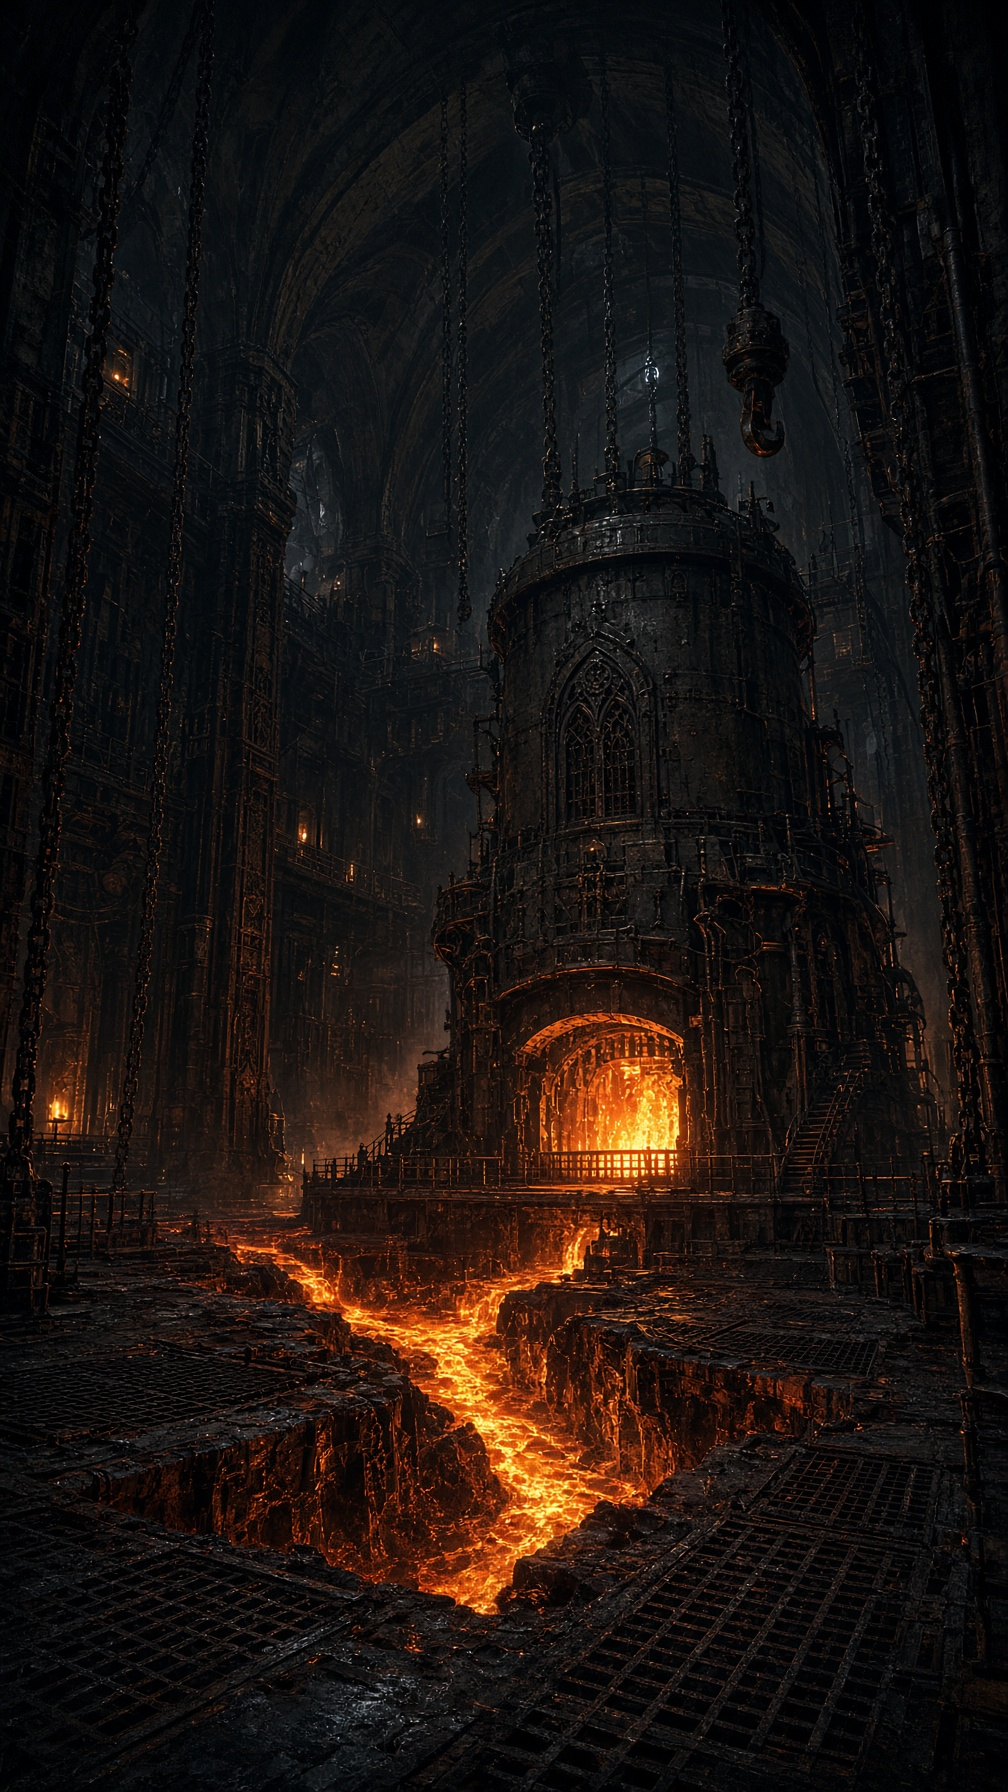
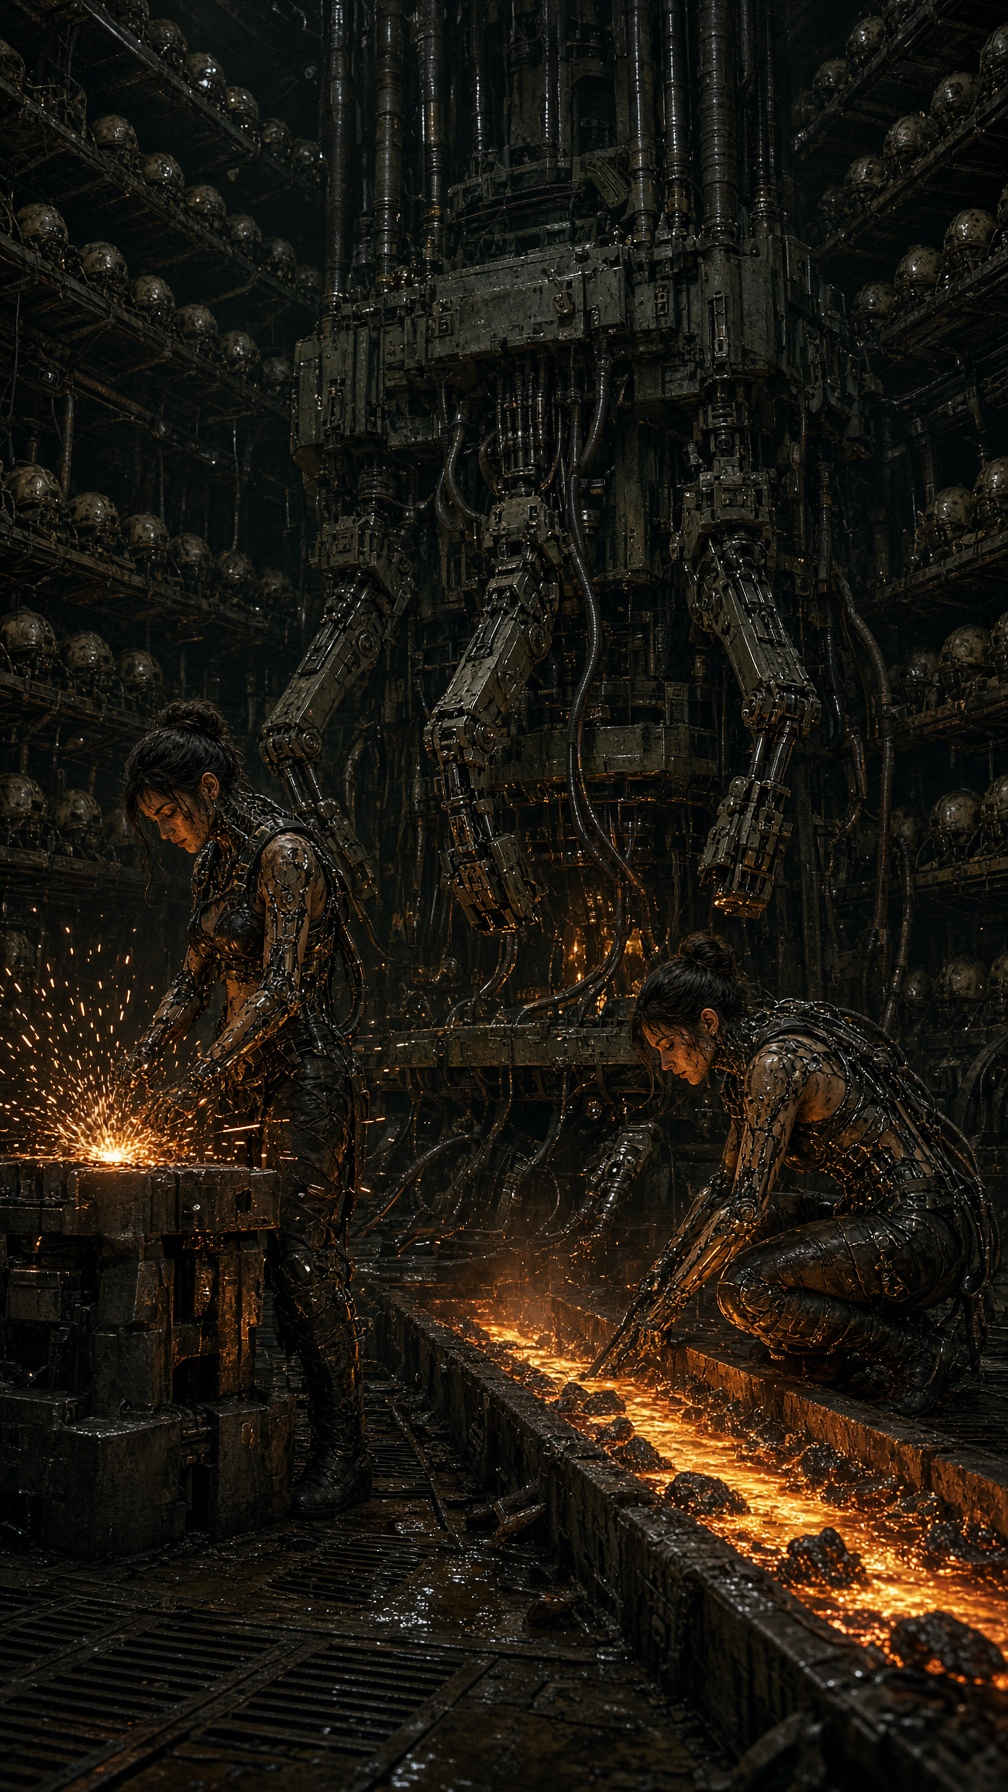
Hold 3D canvas under hive interiors so RAID never cold-starts.
Canvas stays mounted. HULL/FORGE/MINDS overlay new cyborg hive art.
Forge is a print bay, not the command deck. RAID rail fails closed.

diff --git a/src/components/nidus/NidusApp.tsx b/src/components/nidus/NidusApp.tsx
@@ -243,7 +243,13 @@ function LiveHive({ waking, gift, showBrief }: { waking: boolean; gift: boolean;
   const { collapsed, bump, showChrome, toggleHide } = useIdleChrome(locked || riteOpen || Boolean(guide));
   const whispered = useState(() => new Set<string>())[0];
   const s = useNidus();
-  const goal = nextGoal(s);
+  const goal = (() => {
+    try {
+      return nextGoal(s);
+    } catch {
+      return "GROW THE SWARM";
+    }
+  })();
   const stage = hiveStage(s);
   const tip = (() => {
     try {
@@ -480,7 +486,13 @@ function RaidRail() {
   const strikers = useNidus((s) => s.swarm.striker);
   const s = useNidus();
   const boosted = Date.now() < boostUntil;
-  const unlocked = RAIDS.filter((n) => raidUnlocked(s, n.id));
+  const unlocked = (() => {
+    try {
+      return RAIDS.filter((n) => raidUnlocked(s, n.id));
+    } catch {
+      return [];
+    }
+  })();
   return (
     <aside data-chrome className="pointer-events-auto absolute bottom-12 right-2 top-[max(5.6rem,calc(env(safe-area-inset-top)+4.8rem))] z-30 flex w-[6.6rem] flex-col gap-1 overflow-y-auto">
       {raidNode && (
@@ -495,6 +507,9 @@ function RaidRail() {
             {boosted ? "FIRE" : "BOOST"}
           </button>
         </div>
+      )}
+      {unlocked.length === 0 && !raidNode && (
+        <p className="nidus-card p-1.5 text-center font-display text-[0.45rem] leading-tight tracking-[0.08em] text-muted">HANGAR + BOTH GUNS TO DUEL</p>
       )}
       {unlocked.map((node) => {
         const need = raidNeed(s, node.id);

diff --git a/src/lib/nidus/content.ts b/src/lib/nidus/content.ts
@@ -532,18 +532,18 @@ export function nextGoal(s: GameState): string {
   if (s.raid) return s.raid.watching ? "COMMAND THE WELL" : "WATCH OR LEAVE — FLEET FIGHTS";
   if (totalSwarm(s) >= berthCap(s) - 1) return "OPEN BERTHS — SWARM IS PACKED";
   if (s.minds.filter((m) => m.alive).length === 0) {
-    if (!s.rooms.solar.built) return "SPINE FIRST — SPARK BANKS";
+    if (!s.rooms.solar?.built) return "SPINE FIRST — SPARK BANKS";
     return "CALL AN OFFICER";
   }
-  if (!s.rooms.lab.built) return "RAISE THE LAB";
+  if (!s.rooms.lab?.built) return "RAISE THE LAB";
   if (!s.autoPrint) return "FLIP AUTO PRINT";
-  if (!s.rooms.hangar.built) return "RAISE THE HANGAR";
+  if (!s.rooms.hangar?.built) return "RAISE THE HANGAR";
   if (!s.rooms.railgun?.built) return "MOUNT THE RAILGUN";
   if (!s.rooms.cannon?.built) return "MOUNT THE AUTOCANNON";
   if (s.swarm.striker >= 2 && !s.raid && !s.raidCleared.includes("ice")) return "DUEL THE CUTTER";
-  if (!s.rooms.nerve.built) return "RAISE THE NERVE";
-  if (s.rooms.lab.built && !s.tech.cheapprint.done && !s.activeTech) return "START CHEAP PRINT";
-  if (s.rooms.reliquary.built && s.tech.moltlock.done && s.moltLayer < 1) return "MOLT THE NAVE";
+  if (!s.rooms.nerve?.built) return "RAISE THE NERVE";
+  if (s.rooms.lab?.built && !s.tech.cheapprint?.done && !s.activeTech) return "START CHEAP PRINT";
+  if (s.rooms.reliquary?.built && s.tech.moltlock?.done && s.moltLayer < 1) return "MOLT THE NAVE";
   return "GROW THE SWARM";
 }
 

diff --git a/src/components/nidus/StationMount.tsx b/src/components/nidus/StationMount.tsx
@@ -57,26 +57,37 @@ const INTERIOR: Record<string, string> = {
   minds: "/nidus/interior-minds.jpg",
 };
 
+/** 3D canvas stays mounted so RAID never cold-starts WebGL. Interiors overlay it. */
 export function StationMount() {
   const [on, setOn] = useState(false);
   const tab = useNidus((s) => s.tab);
+  const live = tab === "raid";
   useEffect(() => setOn(true), []);
   if (!on) return <div className="absolute inset-0 bg-void" />;
-  if (tab !== "raid") {
-    return (
-      <img
-        src={INTERIOR[tab] ?? INTERIOR.hull}
-        alt=""
-        className="absolute inset-0 h-full w-full object-cover"
-        crossOrigin="anonymous"
-      />
-    );
-  }
   return (
-    <HullBound>
-      <Suspense fallback={<div className="absolute inset-0 bg-void" />}>
-        <Scene />
-      </Suspense>
-    </HullBound>
+    <>
+      <div
+        className="absolute inset-0"
+        style={{
+          visibility: live ? "visible" : "hidden",
+          pointerEvents: live ? "auto" : "none",
+        }}
+        aria-hidden={!live}
+      >
+        <HullBound>
+          <Suspense fallback={<div className="absolute inset-0 bg-void" />}>
+            <Scene />
+          </Suspense>
+        </HullBound>
+      </div>
+      {!live && (
+        <img
+          src={INTERIOR[tab] ?? INTERIOR.hull}
+          alt=""
+          className="absolute inset-0 h-full w-full object-cover"
+          crossOrigin="anonymous"
+        />
+      )}
+    </>
   );
 }

diff --git a/src/lib/nidus/sim.ts b/src/lib/nidus/sim.ts
@@ -611,10 +611,11 @@ export function unmake(s: GameState, mindId: string): GameState {
 export function sendRaid(s: GameState, node: RaidId, now: number): GameState {
   const next = cloneState(s);
   if (next.raid) return next;
-  const spec = RAIDS.find((r) => r.id === node);
-  if (!spec || !raidUnlocked(next, node)) return next;
-  const need = raidNeed(next, node);
-  if (next.swarm.striker < need) return next;
+  try {
+    const spec = RAIDS.find((r) => r.id === node);
+    if (!spec || !raidUnlocked(next, node)) return next;
+    const need = raidNeed(next, node);
+    if (next.swarm.striker < need) return next;
   const captain = next.minds.find((m) => m.alive && m.job === "raid") ?? null;
   const bars = freshRaidBars(next, node, need);
   const firstIce = node === "ice" && !next.raidCleared.includes("ice");
@@ -630,7 +631,10 @@ export function sendRaid(s: GameState, node: RaidId, now: number): GameState {
     boostUntil: 0,
     beat: "ORBIT",
   };
-  return next;
+    return next;
+  } catch {
+    return s;
+  }
 }
 
 export function watchRaid(s: GameState, on: boolean): GameState {

diff --git a/src/components/nidus/StationScene.tsx b/src/components/nidus/StationScene.tsx
@@ -1299,8 +1299,12 @@ function BattleField() {
     if (flash.current) flash.current.opacity = dead ? 0 : 0.35 + pulse * 0.4;
     if (!dead && t - lastHit.current > (boosted ? 0.85 : 1.35)) {
       lastHit.current = t;
-      chime(t % 2 > 1 ? "rail" : "cannon");
-      if (Math.random() > 0.55) chime("ping");
+      try {
+        chime(t % 2 > 1 ? "rail" : "cannon");
+        if (Math.random() > 0.55) chime("ping");
+      } catch {
+        /* audio optional */
+      }
     }
   });
   if (!raid) return null;

diff --git a/src/lib/nidus/store.ts b/src/lib/nidus/store.ts
@@ -171,9 +171,13 @@ export const useNidus = create<Store>((set, get) => ({
     lastWrite = Date.now();
   },
   launchRaid: (id) => {
-    set(sendRaid(get(), id, Date.now()));
-    writeSave(pickGame(get()));
-    lastWrite = Date.now();
+    try {
+      set(sendRaid(pickGame(get()), id, Date.now()));
+      writeSave(pickGame(get()));
+      lastWrite = Date.now();
+    } catch {
+      writeSave(pickGame(get()));
+    }
   },
   surge: () => {
     set(startSurge(get(), Date.now()));
